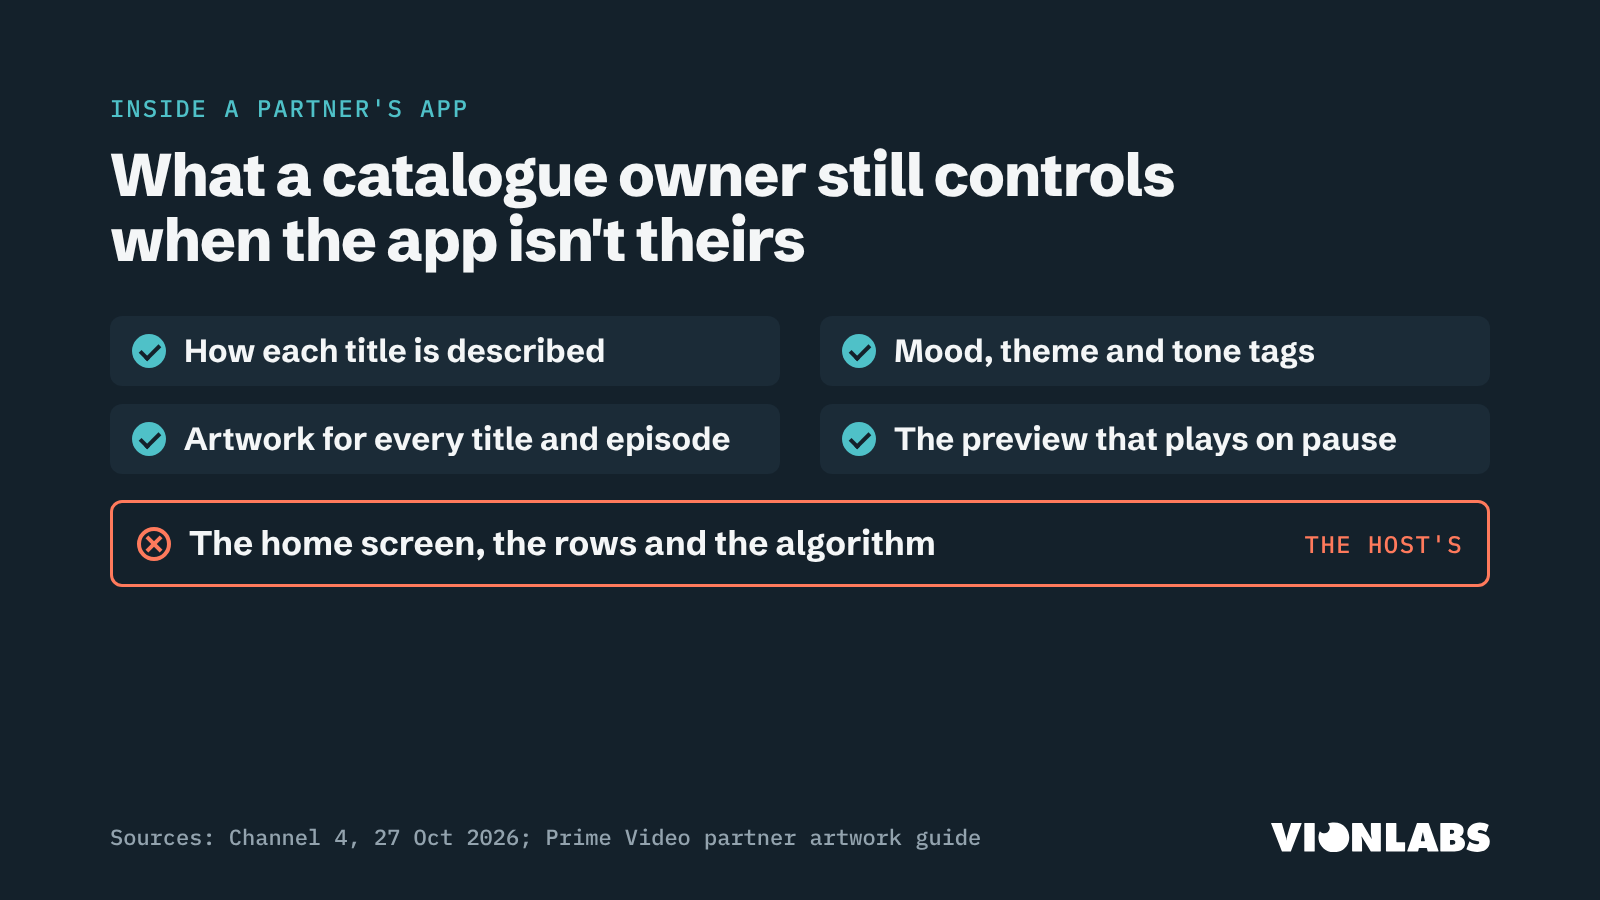
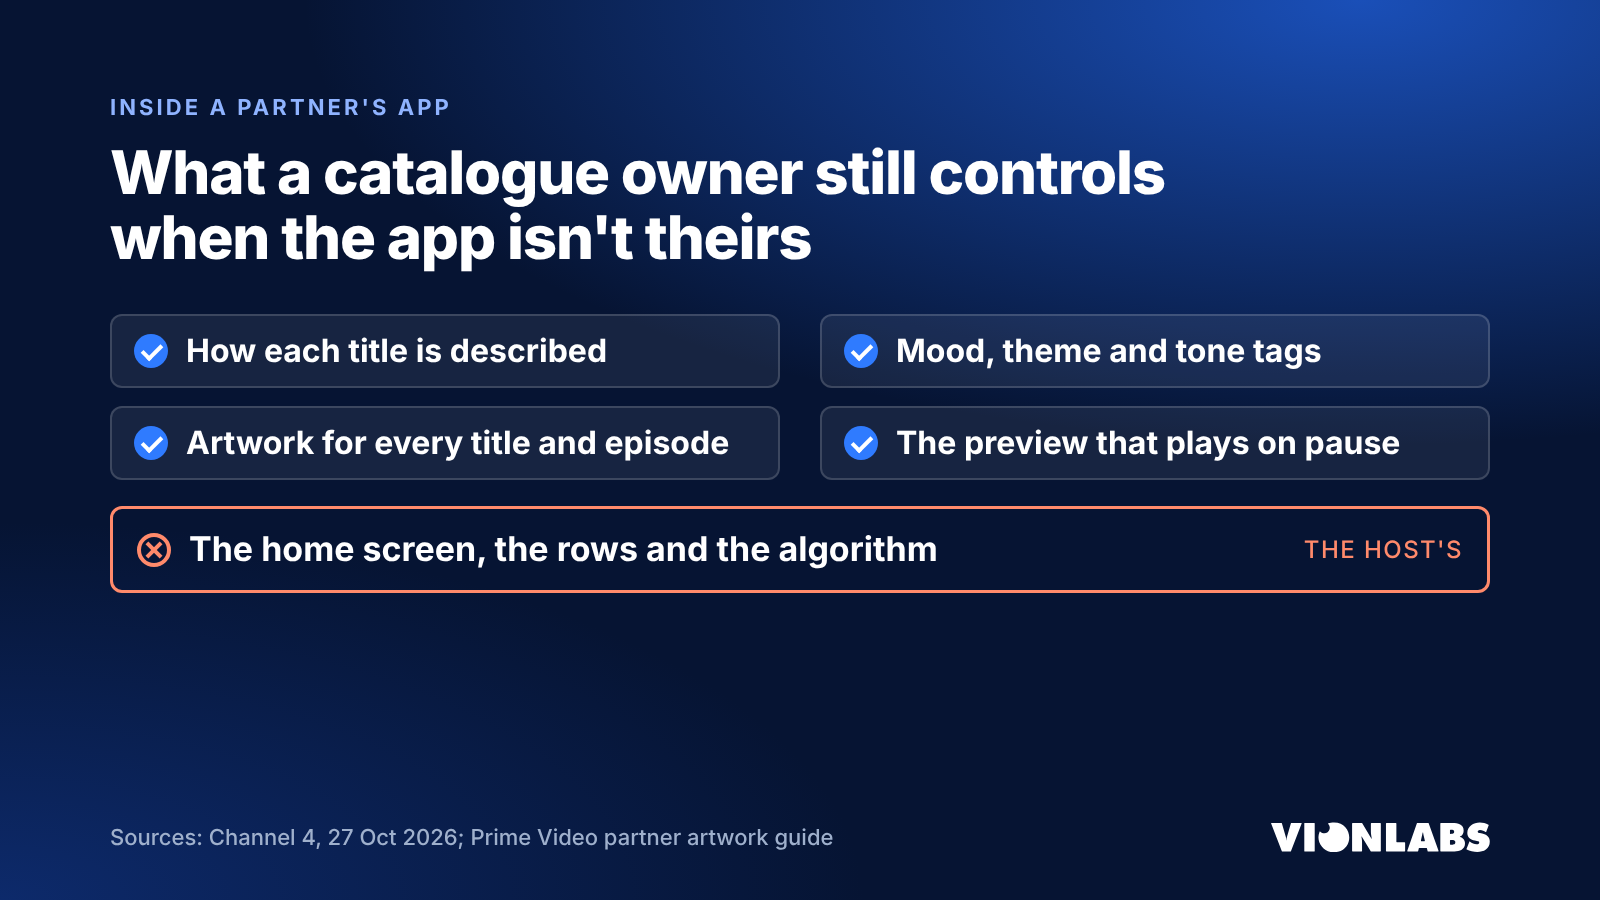
Restyle the W45 in-article figure in the blog's blue style
Claude-Session: https://claude.ai/code/session_015Kf79uanNb7hZho8qrKdQy

diff --git a/content-engine/bot/figure-blue.html b/content-engine/bot/figure-blue.html
@@ -1,0 +1,74 @@
+<!doctype html>
+<html>
+<head>
+<meta charset="utf-8">
+<title>Deep Dives figure (blog style)</title>
+<link rel="stylesheet" href="https://fonts.googleapis.com/css2?family=Inter:wght@500;600;700;800&display=swap">
+<style>
+/* The figure.html checklist in the vionlabs.com blog's own style (deep blue gradient, Inter, bright blue), to sit with beforeafter.html covers: a checklist of what is measured, with the one missing item set apart. Rendered to PNG by cover.js. */
+:root {
+  --ink: #061433;
+  --panel: rgba(255, 255, 255, 0.07);
+  --paper: #ffffff;
+  --muted: #9fb0cc;
+  --line: rgba(255, 255, 255, 0.16);
+  --accent: #2f7bff;
+  --warn: #ff8a6b;
+  --display: "Inter", "Helvetica Neue", Arial, sans-serif;
+  --mono: "Inter", "Helvetica Neue", Arial, sans-serif;
+}
+* { box-sizing: border-box; }
+html, body { margin: 0; width: 1600px; height: 900px; overflow: hidden; color: var(--paper);
+  background: radial-gradient(120% 90% at 85% 0%, #1a4fb8 0%, rgba(26, 79, 184, 0) 55%), radial-gradient(90% 70% at 0% 100%, #0d2a6b 0%, rgba(13, 42, 107, 0) 60%), var(--ink); }
+.fig { width: 1600px; height: 900px; padding: 96px 110px 0; display: grid; grid-template-rows: auto auto 1fr auto; gap: 0; }
+.kicker { font: 700 22px/1 var(--mono); letter-spacing: 0.14em; text-transform: uppercase; color: #8fb3ff; }
+h1 { margin: 22px 0 44px; font: 800 60px/1.08 var(--display); letter-spacing: -0.02em; max-width: 1200px; }
+.items { display: grid; grid-template-columns: 1fr 1fr; gap: 18px 40px; align-content: start; }
+.item { border: 2px solid var(--line); display: flex; align-items: center; gap: 18px; font: 700 32px/1.2 var(--display); padding: 16px 22px; background: var(--panel); border-radius: 12px; }
+.tick { flex: none; width: 34px; height: 34px; border-radius: 50%; background: var(--accent); position: relative; }
+.tick::after { content: ""; position: absolute; left: 12px; top: 6px; width: 8px; height: 16px; border: solid #ffffff; border-width: 0 4px 4px 0; transform: rotate(45deg); }
+.missing { margin-top: 26px; display: flex; align-items: center; justify-content: space-between; gap: 24px; padding: 20px 24px; border: 3px solid var(--warn); border-radius: 12px; font: 700 34px/1.2 var(--display); }
+.missing .x { flex: none; width: 34px; height: 34px; border-radius: 50%; border: 4px solid var(--warn); position: relative; margin-right: 18px; }
+.missing .x::before, .missing .x::after { content: ""; position: absolute; left: 11px; top: 3px; width: 4px; height: 20px; background: var(--warn); transform: rotate(45deg); }
+.missing .x::after { transform: rotate(-45deg); }
+.missing .l { display: flex; align-items: center; }
+.missing .tag { font: 500 24px/1 var(--mono); letter-spacing: 0.06em; text-transform: uppercase; color: var(--warn); white-space: nowrap; }
+.foot { display: flex; justify-content: space-between; align-items: center; padding: 34px 0 48px; font: 500 22px/1 var(--mono); color: var(--muted); }
+/* The official wordmark (assets/vionlabs-logo-white.svg, never redrawn), cropped to its ink because the file's viewBox pads it. --h is the ink height. */
+.logo { --h: 30px; flex: none; overflow: hidden; height: var(--h); width: calc(var(--h) * 391.56 / 53.74); }
+.logo img { display: block; height: calc(var(--h) * 93.333 / 53.74); margin: calc(var(--h) * -22.28 / 53.74) 0 0 calc(var(--h) * -19.875 / 53.74); }
+</style>
+</head>
+<body>
+<div class="fig">
+  <div class="kicker" id="kicker"></div>
+  <h1 id="title"></h1>
+  <div>
+    <div class="items" id="items"></div>
+    <div class="missing" id="missing" hidden><span class="l"><span class="x"></span><span id="missingText"></span></span><span class="tag" id="missingTag"></span></div>
+  </div>
+  <div class="foot"><span id="source"></span><span class="logo"><img src="assets/vionlabs-logo-white.svg" alt="Vionlabs"></span></div>
+</div>
+<script>
+// Spec from cover.js: {kicker, title, items: [...], missing, missingTag, source}.
+function draw(s) {
+  document.getElementById("kicker").textContent = s.kicker || "";
+  document.getElementById("title").textContent = s.title || "";
+  var box = document.getElementById("items");
+  (s.items || []).forEach(function (t) {
+    var d = document.createElement("div"); d.className = "item";
+    var k = document.createElement("span"); k.className = "tick";
+    var l = document.createElement("span"); l.textContent = t;
+    d.appendChild(k); d.appendChild(l); box.appendChild(d);
+  });
+  if (s.missing) {
+    document.getElementById("missing").hidden = false;
+    document.getElementById("missingText").textContent = s.missing;
+    document.getElementById("missingTag").textContent = s.missingTag || "";
+  }
+  document.getElementById("source").textContent = s.source || "";
+}
+if (window.FIGURE) draw(window.FIGURE);
+</script>
+</body>
+</html>
